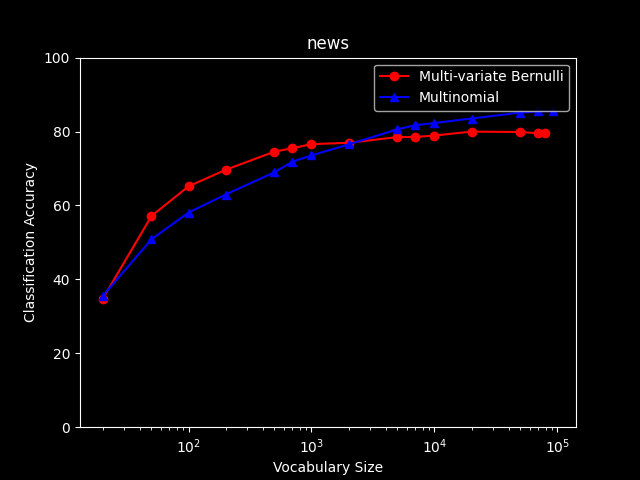
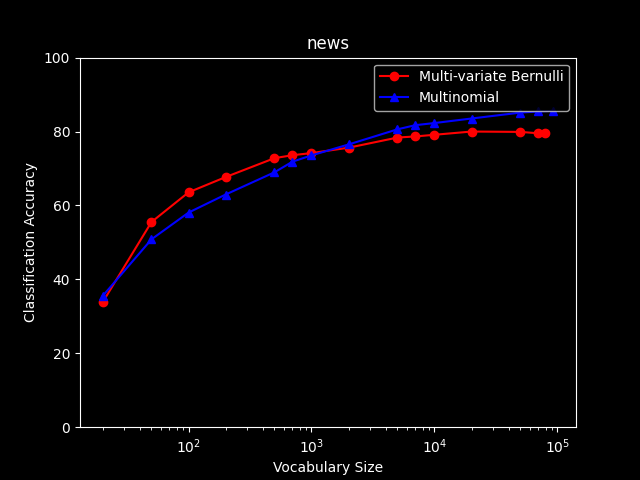
Added split import

diff --git a/importing.py b/importing.py
@@ -14,13 +14,13 @@ def startImport(args):
     createTestTrainDir(path)
     datasetFolderPath = args.path[0]
 
-    if args.split is True:
+    if args.split is not None:
         for group in os.listdir(datasetFolderPath):
             files = os.listdir(f"{datasetFolderPath}/{group}")
             nFiles = len(files)
             testFiles = []
 
-            for i in range(0,  int(nFiles * 0.2)):
+            for i in range(0,  int(nFiles * args.split)):
                 random.seed()
                 index = random.randrange(0, len(files))
                 testFiles.append(files[index])
@@ -37,7 +37,24 @@ def startImport(args):
             copyFiles(f"{datasetFolderPath}/{group}", files, trainPath)
             copyFiles(f"{datasetFolderPath}/{group}", testFiles, testPath)
     else:
-        print("need to be implementated")
+        trainDatasetPath = f"{datasetFolderPath}/train"
+        testDatasetPath = f"{datasetFolderPath}/test"
+
+
+        trainPath = f"{path}/train/{group}"
+        testPath = f"{path}/test/{group}"
+
+        os.mkdir(trainPath)
+        os.mkdir(testPath)
+
+        for groupTrainDir in os.listdir(trainDatasetPath):
+            trainFiles = os.listdir(f"{trainDatasetPath}/{groupTrainDir}")
+            copyFiles(f"{trainDatasetPath}/{groupTrainDir}", trainFiles, trainPath)
+        for groupTestDir in os.listdir(testDatasetPath):
+            testFiles = os.listdir(f"{testDatasetPath}/{groupTestDir}")
+            copyFiles(f"{testDatasetPath}/{groupTestDir}", testFiles, testPath)
+
+
 def copyFiles(datasetPath, files, destinationPath):
     bar = defaultProgress(len(files)).start()
     i = 0

diff --git a/models/weightedDictionary.py b/models/weightedDictionary.py
@@ -160,9 +160,6 @@ class MBMWeightedDictionary(WeightedDictionary):
             self.totalClassWords[i] = len(self.groups[i].documents)
 
     def __getMutualInformationArray__(self):
-        totalDocuments = 0
-        for group in self.groups:
-            totalDocuments += len(group.documents)
         mutualInformation = []
 
         print(f"Calculating mutual information for {self.__strTypeDictionary__()}")
@@ -180,14 +177,14 @@ class MBMWeightedDictionary(WeightedDictionary):
 
                 C = len(self.groups[i].documents)
     
-                n1 = A * totalDocuments
-                n0 = (C - A) * totalDocuments
+                n1 = A * self.totalWords
+                n0 = (C - A) * self.totalWords
                 d1 = B * C
-                d0 = (totalDocuments - B) * C
+                d0 = (self.totalWords - B) * C
                 if A != 0:
-                    mi += (A/totalDocuments) * math.log(n1/d1) 
-                #if C - A != 0:
-                #    mi += ((C-A) / totalDocuments) * math.log(n0/d0)
+                    mi += (A/self.totalWords) * math.log(n1/d1) 
+                if C - A != 0:
+                    mi += ((C-A) / self.totalWords) * math.log(n0/d0)
 
             mutualInformation.append([mi, wordVector])
             j += 1
@@ -232,7 +229,6 @@ class MMWeightedDictionary(WeightedDictionary):
 
     def __getMutualInformationArray__(self):
         mutualInformation = []
-        self.__setUpTotalWordsCount__()
 
         print(f"Calculating mutual information for {self.__strTypeDictionary__()}")
         bar = defaultProgress(len(self.words)).start()

diff --git a/main.py b/main.py
@@ -131,7 +131,7 @@ def main():
 
     parser.add_argument('command', choices=commands.keys(), metavar='command',
                         help=f'Commands avaiable: {str(commands.keys())}')
-    parser.add_argument('-s', '--split', default=False, const=True, action='store_const', help='Split the dataset path into train and test with 80:20 ratio')
+    parser.add_argument('-s', '--split', nargs='?', const=0.2, type=float, help='Split the dataset path into train and test default ratio 0.2 (80:20)')
     parser.add_argument('-p', '--path', nargs=1, type=str, metavar='dataset-path',
                         help='Path to the folder of the dataset destination; Needed for import-dataset')
     parser.add_argument('-n', '--name', nargs=1, type=str, metavar='dataset-name', help='Name of the dataset selected; Needed for start-training')
